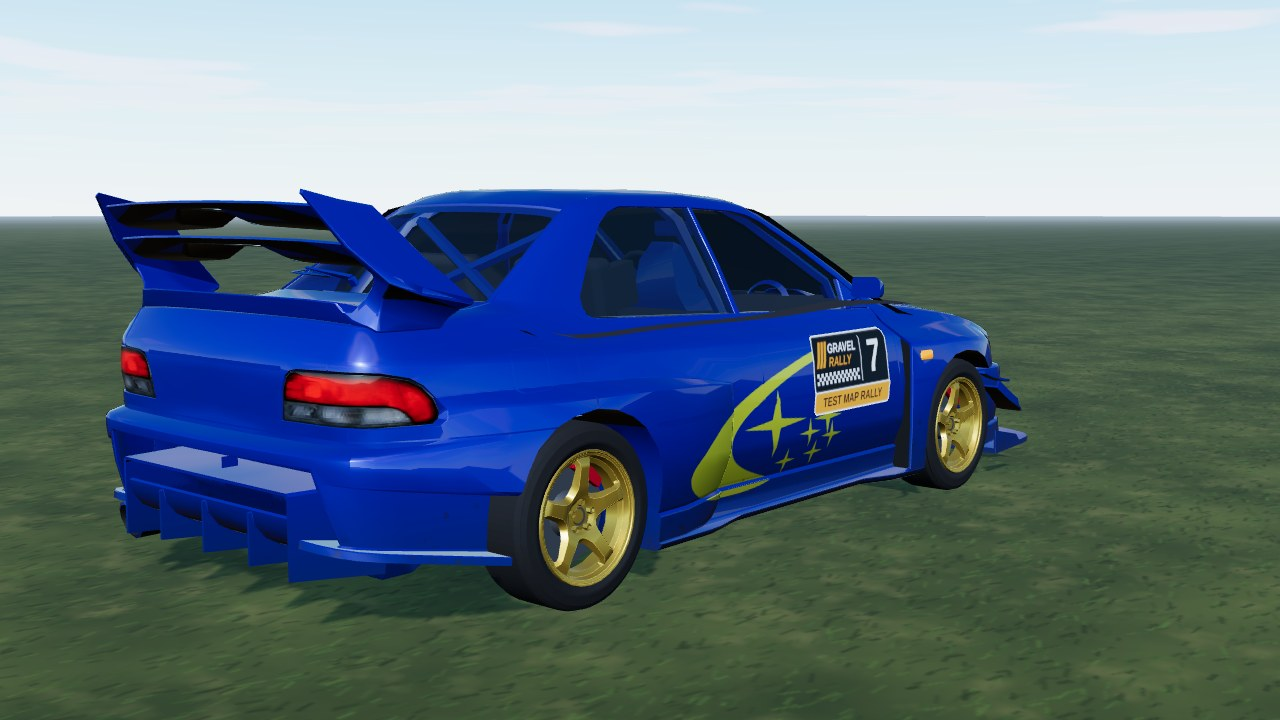
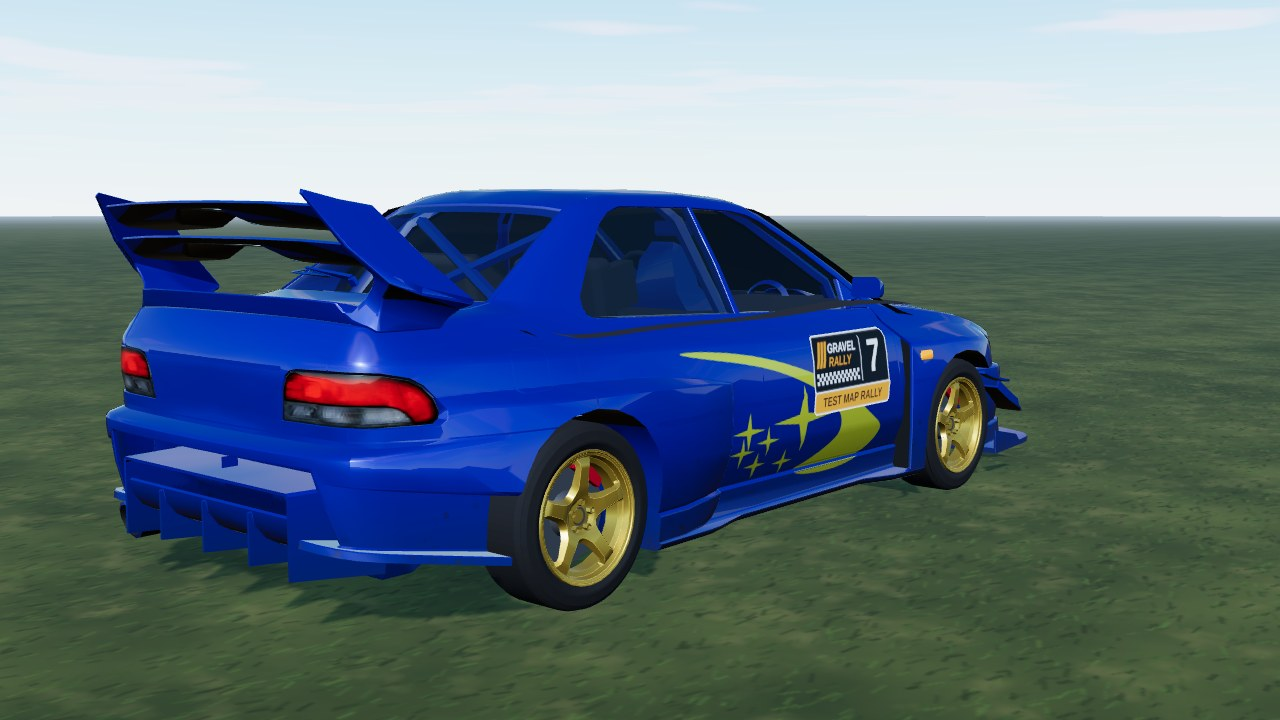
22B: flip the side graphic along the car
- bulge and stars at the front, tip trailing back, on both doors
- retake screenshots

Changed region(s): [[0.5312, 0.4889, 0.6875, 0.7028]]

diff --git a/src/games/rally/cars/subie-22b/livery.ts b/src/games/rally/cars/subie-22b/livery.ts
@@ -8,7 +8,7 @@ import source from './model.source.json';
  * Runtime paint for the Subaru WRX STI 22B BODY (converted GLB, atlas layout in model.source.json). Glass, lamps, mirrors and
  * trim are separate parts with their own materials, so only body panels get paint: blue base, dark undercoat, and the side
  * graphic - a crescent swoosh with a cluster of four-point stars, redrawn as shapes after the owner's reference picture
- * (no lettering), always pointing forward.
+ * (no lettering), bulge and stars at the front, tip trailing back.
  */
 const A = source.atlas;
 const { K, B, CH, Painter, sidePx, frontPx, rearPx } = atlasKit(A);
@@ -20,9 +20,10 @@ const Y_TOP = 0.8;
 /** Reference picture rows spanned by the graphic (crescent tip to lower end). */
 const REF_Y = [121, 222];
 const PX = (Y_TOP - Y_BOTTOM) / (REF_Y[1] - REF_Y[0]);
-/** The crescent's lower-left end ("tail") sits over the rear wheel arch (z, m); the graphic grows forward from there. */
-const TAIL_Z = -0.957;
-const AT_Z = TAIL_Z + (295 - 168) * PX;
+/** Rear end of the graphic (z, m), just in front of the rear wheel arch; it grows forward from there. */
+const REAR_Z = -0.957;
+/** Reference picture columns spanned by the graphic (crescent bulge to tip). */
+const REF_X = [168, 422];
 
 /** Reference picture coordinates (px, y down): the crescent outline, sweeping from the lower end round the left bulge to the upper tip. */
 const CRESCENT: Pt[] = [
@@ -94,11 +95,12 @@ function star(cx: number, cy: number, rh: number, rv: number): Pt[] {
 }
 
 /**
- * Reference px -> body side (z, y). The same z on both sides: the graphic always points forward (stars towards the nose),
- * so it is mirrored on one side - the side charts are viewer-oriented, the painter flips z for the left one itself.
+ * Reference px -> body side (z, y). The same z on both sides, and the picture is mirrored along the car: the bulge and
+ * stars lead at the front, the tip trails back like a comet's tail. Seen from the left it reads like the picture (the
+ * painter flips z for the left chart itself), from the right it is reversed.
  */
 const at = ([x, y]: Pt): Pt => [
-  AT_Z + (x - 295) * PX,
+  REAR_Z + (REF_X[1] - x) * PX,
   Y_BOTTOM + (REF_Y[1] - y) * PX,
 ];
 
